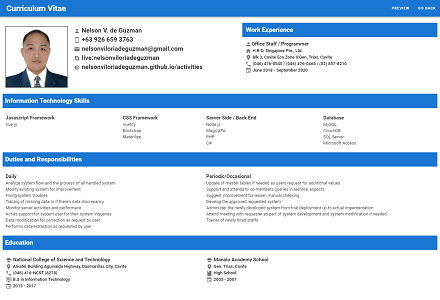
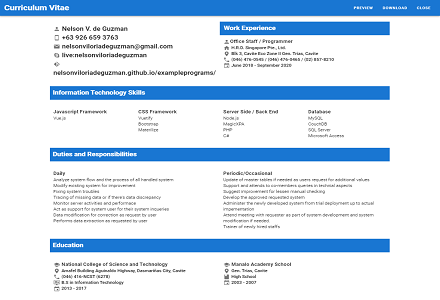
Updating Images

Changed region(s): [[0.0, 0.0, 1.0, 0.99]]

diff --git a/pages/curriculumvitae/index.html b/pages/curriculumvitae/index.html
@@ -33,10 +33,9 @@
           <template>
 
             <v-row>
-              <v-col md="7" >
+              <v-col md="6" >
                 <br>
                 <v-row>
-                  <v-col md="3"><v-img :src="shortProfile.imagePath" :style="imgStyle"></v-img></v-col>
                   <v-col md="9" >
                     <h2><v-icon>mdi-account</v-icon> {{shortProfile.fullName}}</h2>
                     <h2><v-icon>mdi-cellphone</v-icon> {{shortProfile.mobileNumber}}</h2>
@@ -47,7 +46,7 @@
                 </v-row>
                 <br>
               </v-col>
-              <v-col md="5" >
+              <v-col md="6" >
                 <br>
                 <v-row :style="rowHeaderStyle" >
                   &nbsp;<h2 :style="h2Style">Work Experience</h2>

diff --git a/pages/curriculumvitae/js/script.js b/pages/curriculumvitae/js/script.js
@@ -21,7 +21,7 @@ new Vue({
             mobileNumber: '+63 926 659 3763',
             emailAddress: 'nelsonviloriadeguzman@gmail.com',
             skypeName: 'live:nelsonviloriadeguzman',
-            github: 'nelsonviloriadeguzman.github.io/activities',
+            github: 'nelsonviloriadeguzman.github.io/exampleprograms/',
             imagePath: 'img/defaultImage.png'
           },
           projectList: [
